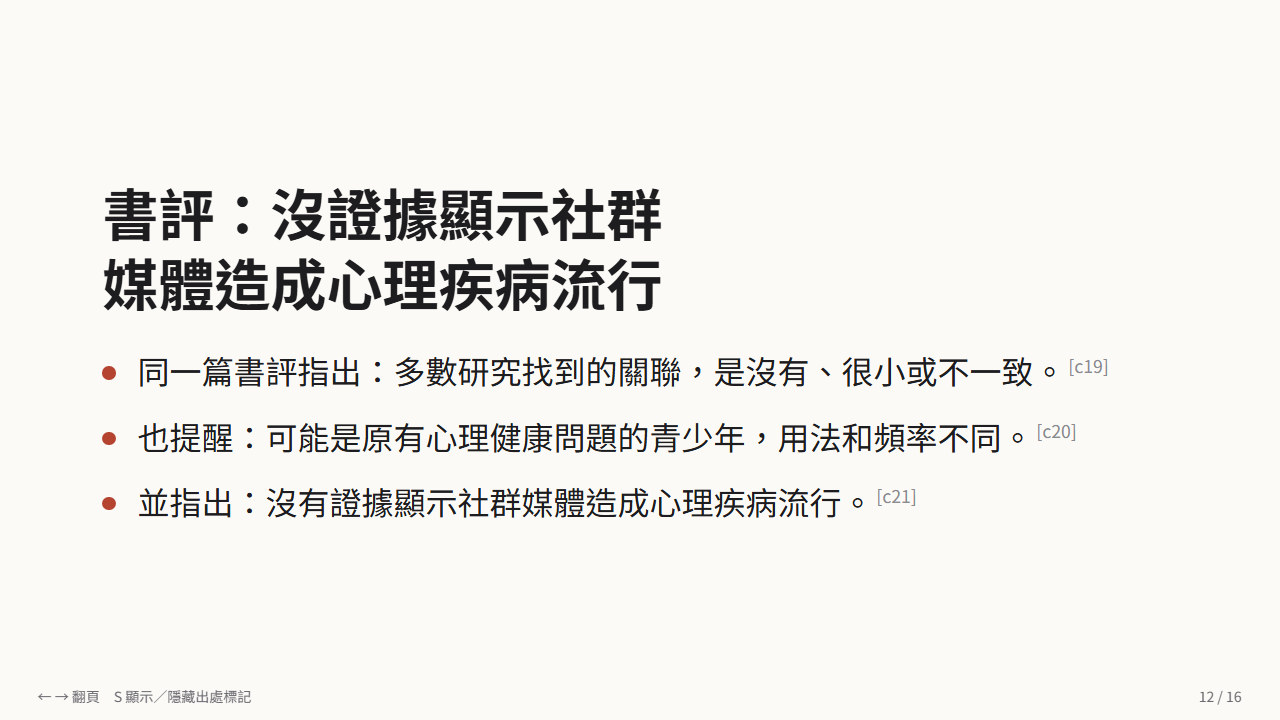
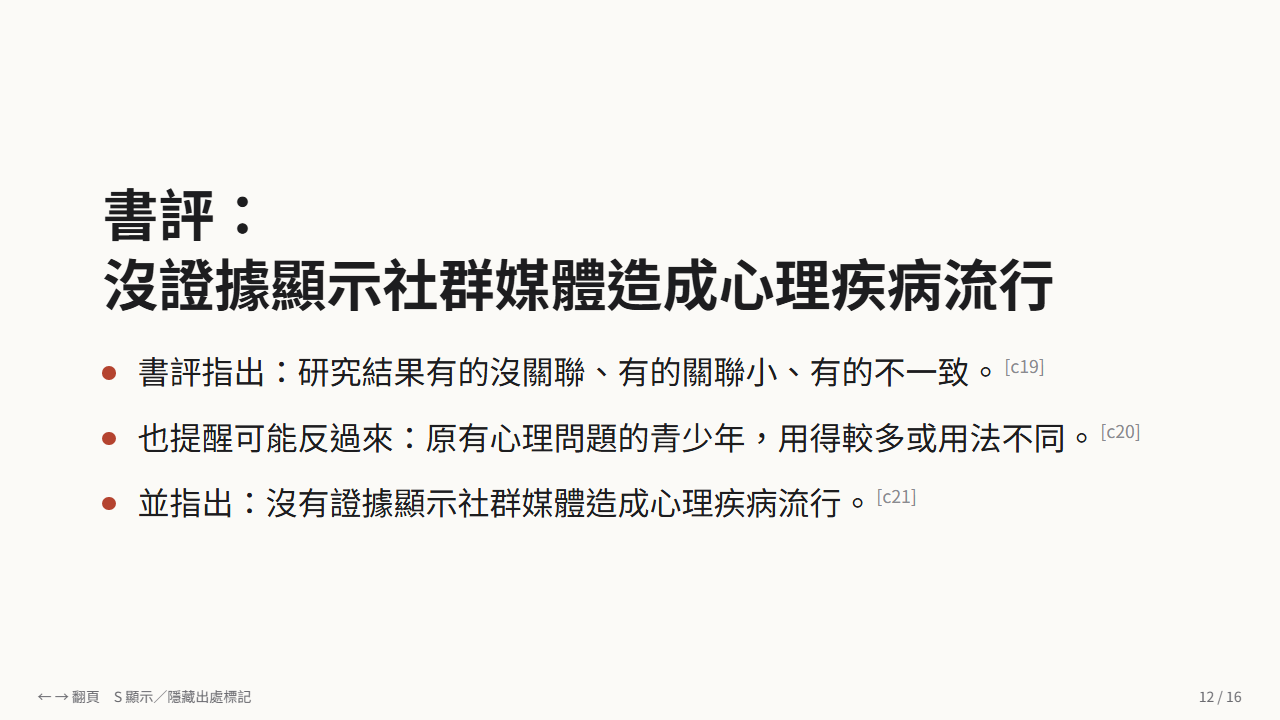
write: slides-intro v4 (fix odgers quantifier overstatement from wiki source; slide-12 rerun G5-G6; slide-08 title wrap via CSS)

diff --git a/outputs/slides-intro/deck.html b/outputs/slides-intro/deck.html
@@ -7,7 +7,7 @@
 font-family:"Noto Sans TC","PingFang TC","Microsoft JhengHei",system-ui,sans-serif}
 .slide{display:none;position:absolute;inset:0;padding:6vh 8vw;flex-direction:column;justify-content:center;overflow:hidden}
 .slide.active{display:flex}
-.slide h1{font-size:clamp(28px,5vw,56px);line-height:1.25;margin:0 0 4vh;color:var(--fg);text-wrap:balance}
+.slide h1{font-size:clamp(28px,5vw,56px);line-height:1.25;margin:0 0 4vh;color:var(--fg);text-wrap:balance;word-break:keep-all;overflow-wrap:anywhere}
 body.hide-refs .ref{display:none}
 .slide.sources h1{font-size:clamp(24px,3.6vw,40px);margin-bottom:3vh}
 .slide.sources ul{columns:2;column-gap:4vw}
@@ -37,7 +37,7 @@ body.hide-refs .ref{display:none}
 <section class="slide" data-slide="slide-09"><h1>常看短影音，注意力比較差？</h1><ul><li>整理 71 篇研究：短影音看越多，認知表現越差（相關研究，僅根據摘要）。<span class="ref" title="（[[nguyen-2025]], Abstract: &quot;Increased SFV use was associated with poorer cognition (moderate mean effect size, r = -.34)&quot;）">[c12]</span><span class="ref" title="（[[nguyen-2025]], Abstract: &quot;Increased SFV use was associated with poorer cognition&quot;）">[c15]</span></li><li>其中注意力和「忍住不分心」的能力，關聯最強（僅根據摘要）。<span class="ref" title="（[[nguyen-2025]], Abstract: &quot;with attention (r = -.38) and inhibitory control (r = -.41) yielding the strongest associations&quot;）">[c13]</span></li><li>青少年和成人都一樣（僅根據摘要）。<span class="ref" title="（[[nguyen-2025]], Abstract: &quot;These findings were consistent across youth and adult samples and across different SFV platforms&quot;）">[c14]</span></li></ul></section>
 <section class="slide" data-slide="slide-10"><h1>「有關聯」不等於「造成」</h1><ul><li>這篇整理的是「有關聯」，不是「造成」（僅根據摘要）。<span class="ref" title="（[[nguyen-2025]], Abstract: &quot;Increased SFV use was associated with poorer cognition&quot;）">[c15]</span></li></ul><p class="lead">心理健康的研究呢？</p><ul><li>一位研究者的書評提醒：「科技使用」和「心理健康問題」的趨勢線一起上升，不能判斷誰造成誰。<span class="ref" title="（[[odgers-2024]], p. 29: &quot;how to avoid making up stories by simply looking at trend lines&quot;）">[c23]</span></li></ul></section>
 <section class="slide" data-slide="slide-11"><h1>手機、社群媒體是心理健康的元兇嗎？</h1><ul><li>前述短影音整理：看越多，心理健康越差，屬弱相關（僅根據摘要）。<span class="ref" title="（[[nguyen-2025]], Abstract: &quot;Similarly, increased SFV use was associated with poorer mental health (weak mean effect size, r = -.21)&quot;）">[c16]</span></li><li>英國中學生：用手機越久，心理幸福感越低（相關研究）。<span class="ref" title="（[[goodyear-2025]], p. 8: &quot;Increases in smartphone and social media time were associated with reduced mental wellbeing on a weekday, on a weekend day, and across a week&quot;）">[c17]</span></li><li>作者：也可能反過來，心理狀態差的學生用得較多。<span class="ref" title="（[[goodyear-2025]], p. 12: &quot;the study design is cross sectional which makes it difficult to draw conclusions about causality and reverse causality cannot be ruled out&quot;）">[c18]</span></li></ul></section>
-<section class="slide" data-slide="slide-12"><h1>書評：沒證據顯示社群媒體造成心理疾病流行</h1><ul><li>同一篇書評指出：多數研究找到的關聯，是沒有、很小或不一致。<span class="ref" title="（[[odgers-2024]], p. 29: &quot;Our efforts have produced a mix of no, small and mixed associations&quot;）">[c19]</span></li><li>也提醒：可能是原有心理健康問題的青少年，用法和頻率不同。<span class="ref" title="（[[odgers-2024]], p. 29: &quot;mental-health problems use such platforms more often or in different ways from their healthy peers&quot;）">[c20]</span></li><li>並指出：沒有證據顯示社群媒體造成心理疾病流行。<span class="ref" title="（[[odgers-2024]], p. 30: &quot;there is no evidence that using these platforms is rewiring children&#x27;s brains or driving an epidemic of mental illness&quot;）">[c21]</span></li></ul></section>
+<section class="slide" data-slide="slide-12"><h1>書評：沒證據顯示社群媒體造成心理疾病流行</h1><ul><li>書評指出：研究結果有的沒關聯、有的關聯小、有的不一致。<span class="ref" title="（[[odgers-2024]], p. 29: &quot;Our efforts have produced a mix of no, small and mixed associations&quot;）">[c19]</span></li><li>也提醒可能反過來：原有心理問題的青少年，用得較多或用法不同。<span class="ref" title="（[[odgers-2024]], p. 29: &quot;mental-health problems use such platforms more often or in different ways from their healthy peers&quot;）">[c20]</span></li><li>並指出：沒有證據顯示社群媒體造成心理疾病流行。<span class="ref" title="（[[odgers-2024]], p. 30: &quot;there is no evidence that using these platforms is rewiring children&#x27;s brains or driving an epidemic of mental illness&quot;）">[c21]</span></li></ul></section>
 <section class="slide" data-slide="slide-13"><h1>限制手機的學校，學生有什麼不同？</h1><ul><li>同一個英國中學生相關研究（學校非隨機分配）：限制手機的學校，在校用手機少 0.67 小時。<span class="ref" title="（[[goodyear-2025]], p. 12: &quot;there is a risk of selection bias and unmeasured confounding in this study&quot;）">[c28]</span><span class="ref" title="（[[goodyear-2025]], p. 7: &quot;Students attending restrictive schools had significantly lower in school smartphone time&quot;）">[c24]</span></li><li>但平日、週末的總使用時間沒差別。<span class="ref" title="（[[goodyear-2025]], p. 7: &quot;in the adjusted models, the differences were non-significant&quot;）">[c25]</span></li><li>心理幸福感、睡眠、成績、課堂行為也沒差別。<span class="ref" title="（[[goodyear-2025]], p. 7: &quot;with no evidence of a difference between groups when controlling for other variables&quot;） （[[goodyear-2025]], p. 7: &quot;No significant differences in pupil outcomes were observed between permissive and restrictive schools for all other behavioural outcomes&quot;）">[c26]</span></li></ul></section>
 <section class="slide" data-slide="slide-14"><h1>這個研究沒回答的事：注意力</h1><ul><li>同一個英國中學生研究沒有測量注意力（包括專注力）。<span class="ref" title="（[[goodyear-2025]], p. 5: &quot;Secondary health and education-related outcomes assessed in pupil participants were: anxiety, depression, physical activity, sleep, classroom behaviour, attainment, and problematic social media use&quot;）">[c27]</span></li><li>所以「限制手機能不能讓學生更專心」，這個研究無法回答。<span class="ref" title="（[[goodyear-2025]], p. 5: &quot;Secondary health and education-related outcomes assessed in pupil participants were: anxiety, depression, physical activity, sleep, classroom behaviour, attainment, and problematic social media use&quot;）">[c27]</span></li></ul></section>
 <section class="slide" data-slide="slide-15"><h1>看到手機新聞，先問三件事</h1><p class="lead">是相關，還是實驗？<span class="wref" title="wiki 概念頁：wiki/concepts/correlation-vs-causation.md">[[correlation-vs-causation]]</span></p><p class="lead">研究對象是誰？<span class="wref" title="wiki 概念頁：wiki/concepts/study-population.md">[[study-population]]</span></p><p class="lead">有沒有人重做過？<span class="wref" title="wiki 概念頁：wiki/concepts/replication.md">[[replication]]</span></p><ul><li>另外，那篇書評認為：考量青少年花在平台上的時間，平台仍然需要改革。<span class="ref" title="（[[odgers-2024]], p. 30: &quot;considerable reforms to these platforms are required, given how much time young people spend on them&quot;）">[c22]</span></li></ul></section>

diff --git a/scripts/slides.py b/scripts/slides.py
@@ -403,7 +403,7 @@ CSS = """
 font-family:"Noto Sans TC","PingFang TC","Microsoft JhengHei",system-ui,sans-serif}
 .slide{display:none;position:absolute;inset:0;padding:6vh 8vw;flex-direction:column;justify-content:center;overflow:hidden}
 .slide.active{display:flex}
-.slide h1{font-size:clamp(28px,5vw,56px);line-height:1.25;margin:0 0 4vh;color:var(--fg);text-wrap:balance}
+.slide h1{font-size:clamp(28px,5vw,56px);line-height:1.25;margin:0 0 4vh;color:var(--fg);text-wrap:balance;word-break:keep-all;overflow-wrap:anywhere}
 body.hide-refs .ref{display:none}
 .slide.sources h1{font-size:clamp(24px,3.6vw,40px);margin-bottom:3vh}
 .slide.sources ul{columns:2;column-gap:4vw}

diff --git a/wiki/log.md b/wiki/log.md
@@ -242,3 +242,20 @@ updated: 2026-11-23
   - 問題：G6 (c) 輕微 5 個｜步驟：G6 (c)｜處理：順手修了 slide-14（「專注力」改成「注意力」，改用用詞表的稱呼），重跑 (a)、(b) 通過；另外 4 個因為 80 字上限或卡片沒有依據，沒有修，記進 report
   - 問題：卡片 c19 的「大部分研究」可能超出 odgers 原文（"a mix of no, small and mixed associations"），而且是從 wiki 的 [[phone-social-media-mental-health]] 和 [[odgers-2024]] 繼承來的｜步驟：G6 (b) 第 2 輪（審查員附帶指出）｜處理：outputs 不能回頭改 wiki，列進 report 待使用者決定是否修正 wiki
   - 問題：slide-08 的標題剛好在「同樣」中間斷行｜步驟：G8 人工看截圖｜處理：外觀問題，不是溢出，記進 report
+
+## [2026-11-23] lint | 修正 odgers-2024 的量詞誇大（使用者指示）
+- 修改：[[phone-social-media-mental-health]]（「反對」一節、「目前怎麼看」第一點）、[[odgers-2024]]（一句話摘要、主要發現 3）：「大部分研究的結果是沒有、很小或不一致的關聯」改成「研究找到的結果有好幾種：沒有關聯、關聯很小、結果不一致都有」，忠於原文 "a mix of no, small and mixed associations"；短引不變
+- L1 重跑：28 頁，錯誤 0 個、警告 0 個（沒有用 `--write`，因為它會整份覆寫 lint-report.md，連同 L2 的紀錄）；`check_odgers.py` 35 句全部通過
+- 檢查結果：
+  - 問題：「大部分」是原文沒有的量詞（量詞誇大）｜步驟：**錯誤源自 odgers-2024 ingest 的 I4 寫頁**；wiki lint 的 L1 腳本無法檢查轉述，**L2 AI 審查沒有抓到**（第 3 項過度詮釋本來應該抓到；4-A 的審查員還引用了這一行）；直到簡報第三版 G6 (b) 第 2 輪才由審查員附帶指出（之前的回報和使用者指示寫成 G6 (c)，依本 log 第三版完成那一筆，實際是 G6 (b)）｜處理：使用者同意後，從 wiki 源頭改起，再更新卡片 c19 和 slide-12
+  - 意義：**AI 審查的盲點是細微的量詞誇大。** 引文是對的，方向也是對的（沒有因果、沒有誇大關聯），只有程度被放大，所以腳本攔不下來，AI 審查也容易判定「相符」。錯誤進了 wiki 之後，下游照抄就會繼承；這次能發現，是因為審查員剛好逐字對照英文。這不是穩定的防線
+  - 新發現：同一頁的「方式和頻率不同」把原文 "more often or in different ways" 的「或」寫成「和」，是同一類問題（連接詞改寫）｜步驟：簡報第四版 G6 (b) 第 1 輪｜處理：沒有修改 wiki，列進 outputs/slides-intro/report.md 的 H 項，等使用者決定
+
+## [2026-11-23] write | slides-intro 第四版
+- 依使用者對 E、F、G 的決定修改：c19、outline slide-12 的重點同步改成忠於原文；只對 slide-12 重跑 G5–G6；G7 用排版處理 slide-08 的斷行；80 字上限不變
+- 關卡結果：G3、G4 通過；slide-12 G6 (a) 通過（80 字）；G6 (b) 第 1 輪不通過、第 2 輪通過；G6 (c)（只看 slide-12 和其他頁）會誤導 0 個、輕微 4 個；G7 通過（逐字一致）；G8 通過（16 頁沒有溢出）
+- 檢查結果（每次退回）：
+  - 問題：slide-12 第一次改完 89 字｜步驟：G6 (a)｜處理：精簡第 1 行，改成「研究結果有的沒關聯、有的關聯小、有的不一致」
+  - 問題：slide-12 第 2 行「用法和頻率不同」把 "or" 寫成「和」，也漏掉「可能反過來」｜步驟：G6 (b) 第 1 輪｜處理：退回 G5，改成「也提醒可能反過來：原有心理問題的青少年，用得較多或用法不同」；為了守住 80 字，第 1 行的「同一篇書評」改成用詞表允許的「書評」
+  - 問題：G6 (c) 輕微 4 個（回指較遠、「心理問題」和「心理健康問題」不一致、手機和社群媒體的範圍、標題和第 3 行重複）｜步驟：G6 (c)｜處理：不退回；前兩個改了會超過 80 字，記進 report
+  - 問題：slide-08 標題在「同樣」中間斷行｜步驟：G7｜處理：標題 CSS 加上 `word-break: keep-all`（只在標點換行）和 `overflow-wrap: anywhere`（備案），沒有改字；人工看過 slide-01、08、12 的截圖

diff --git a/wiki/sources/odgers-2024.md b/wiki/sources/odgers-2024.md
@@ -21,7 +21,7 @@ n: 未載明（書評，不適用）
 
 ## 一句話摘要
 
-研究青少年心理健康的心理學家 Odgers 認為，「數位科技重塑孩子的大腦、造成心理疾病流行」這個說法**沒有科學支持**：大部分研究只找到沒有關聯、很小或不一致的關聯，而且大多是相關研究，不能說明因果。
+研究青少年心理健康的心理學家 Odgers 認為，「數位科技重塑孩子的大腦、造成心理疾病流行」這個說法**沒有科學支持**：研究找到的結果有好幾種，沒有關聯、關聯很小、結果不一致都有，而且大多是相關研究，不能說明因果。
 
 ## 研究問題
 
@@ -37,7 +37,7 @@ n: 未載明（書評，不適用）
 
 1. **書中的核心主張沒有科學支持**（[[odgers-2024]], p. 29: "the book's repeated suggestion that digital technologies are rewiring our children's brains and causing an epidemic of mental illness is not supported by science"）
 2. **兩條趨勢線一起上升，不代表因果。** Haidt 在書中用圖表呈現「科技使用」和「青少年心理健康問題」一起上升（[[odgers-2024]], p. 29: "Haidt supplies graphs throughout the book showing that digital-technology use and adolescent mental-health problems are rising together"）。作者說，她在統計課上會畫類似的兩條線（[[odgers-2024]], p. 29: "I draw similar lines on a board that seem to connect two disparate phenomena"），學生幾分鐘內就會開始編故事，解釋兩者為什麼有關（[[odgers-2024]], p. 29: "Within minutes, the students usually begin telling elaborate stories about how the two phenomena are related"）。她認為這些圖正好可以拿來教學生，不要只看趨勢線就編故事（[[odgers-2024]], p. 29: "how to avoid making up stories by simply looking at trend lines"）
-3. **大部分研究的結果是：沒有、很小，或不一致的關聯**（[[odgers-2024]], p. 29: "Our efforts have produced a mix of no, small and mixed associations"），而且大多是相關研究（[[odgers-2024]], p. 29: "Most data are correlative"）
+3. **研究找到的結果有好幾種：沒有關聯、關聯很小、結果不一致都有**（[[odgers-2024]], p. 29: "Our efforts have produced a mix of no, small and mixed associations"），而且大多是相關研究（[[odgers-2024]], p. 29: "Most data are correlative"）
 4. **可能是反過來。** 作者說，追蹤研究（longitudinal study）找到的關聯顯示的不是「社群媒體造成憂鬱」（[[odgers-2024]], p. 29: "they suggest not that social-media use predicts or causes depression, but that young people who already have"），而是原本就有心理健康問題的青少年，使用社群媒體的方式和頻率不同（[[odgers-2024]], p. 29: "mental-health problems use such platforms more often or in different ways from their healthy peers"）
 5. **心理疾病的成因很複雜**，遺傳和環境因素都有（[[odgers-2024]], p. 29: "are driven by a complex set of genetic and environmental factors"）
 6. **兩件事可以同時成立**：沒有證據顯示社群媒體造成心理疾病流行（[[odgers-2024]], p. 30: "there is no evidence that using these platforms is rewiring children's brains or driving an epidemic of mental illness"）；**但是**，考量青少年花在平台上的時間，平台仍然需要大幅改革（[[odgers-2024]], p. 30: "considerable reforms to these platforms are required, given how much time young people spend on them"）

diff --git a/wiki/claims/phone-social-media-mental-health.md b/wiki/claims/phone-social-media-mental-health.md
@@ -23,7 +23,7 @@ updated: 2026-11-23
 ## 反對「是元兇」的論點
 
 - 【評論】「數位科技重塑孩子大腦、造成心理疾病流行」的說法沒有科學支持（[[odgers-2024]], p. 29: "the book's repeated suggestion that digital technologies are rewiring our children's brains and causing an epidemic of mental illness is not supported by science"）
-- 【評論】大部分研究的結果是沒有、很小，或不一致的關聯（[[odgers-2024]], p. 29: "Our efforts have produced a mix of no, small and mixed associations"），而且大多是相關研究（[[odgers-2024]], p. 29: "Most data are correlative"）
+- 【評論】研究找到的結果有好幾種：沒有關聯、關聯很小、結果不一致都有（[[odgers-2024]], p. 29: "Our efforts have produced a mix of no, small and mixed associations"），而且大多是相關研究（[[odgers-2024]], p. 29: "Most data are correlative"）
 - 【評論】**可能是反過來**：追蹤研究（longitudinal study）顯示，原本就有心理健康問題的青少年，使用社群媒體的方式和頻率不同（[[odgers-2024]], p. 29: "mental-health problems use such platforms more often or in different ways from their healthy peers"）
 - 【評論】心理疾病的成因很複雜，遺傳和環境因素都有（[[odgers-2024]], p. 29: "are driven by a complex set of genetic and environmental factors"）
 - 【評論】有負面後果，不等於是成癮（[[panova-2018]], p. 257: "negative consequences is not the same as the existence of addiction"）。見 [[is-smartphone-addiction-real]]。
@@ -42,7 +42,7 @@ updated: 2026-11-23
 
 > 以下是本 wiki 的整理，不是任何一篇論文的結論。
 
-- **兩方的說法不完全衝突。** [[nguyen-2025]] 找到的是「弱的相關」；Odgers 說大部分研究是「沒有、很小或不一致的關聯」。兩者都同意有一些關聯，但都不足以支持「元兇」這麼強的說法。
+- **兩方的說法不完全衝突。** [[nguyen-2025]] 找到的是「弱的相關」；Odgers 說研究找到的結果有好幾種：沒有關聯、關聯很小、結果不一致都有。兩者都同意有一些關聯，但都不足以支持「元兇」這麼強的說法。
 - **[[goodyear-2025]] 和 Odgers 的描述有落差。** 這篇在平日、週末和一整週的各個測量時段，都發現使用時間和心理健康較差有一致的關聯，這和 Odgers「結果不一」的描述不同。但它是橫斷面研究，作者自己也表示不能排除反向因果，所以它同樣只能說明「有關聯」，不能說明手機是元兇。兩者可能的差異來源：Odgers 說的是整體研究文獻，這篇是英國一群中學生的單一研究。
 - **目前缺少的是因果證據。** 現有證據大多是相關研究，能說明「一起出現」，但不能說明「誰造成誰」。
 - **證據的類型要注意**：反對方的主要論點來自兩篇評論（[[odgers-2024]] 是書評，[[panova-2018]] 是立場性評論），它們引用的研究，wiki 大多沒有收錄；支持關聯的統合分析（[[nguyen-2025]]）只有摘要，[[goodyear-2025]] 有全文，但它是橫斷面研究，同樣只能說明「有關聯」。整體來說，wiki 對這個問題的證據基礎還很薄，**特別是缺少因果證據**。

diff --git a/.claude/skills/topic-slides/SKILL.md b/.claude/skills/topic-slides/SKILL.md
@@ -184,7 +184,7 @@ abstract_only: false
 `python scripts/slides.py render <dir>`：由腳本把 drafts 轉成單一 HTML 檔，**只做排版**，不改任何一個字。
 - 方向鍵（← →）、空白鍵、PageUp、PageDown 可以翻頁；右下角顯示頁碼
 - `[card-id]` 渲染成灰色小上標；滑鼠移到上面會顯示該卡片的出處；**按 S 鍵**可以切換顯示或隱藏
-- 標題用 CSS `text-wrap: balance` 平均換行。換行問題用排版處理，不改字
+- 標題用 CSS `text-wrap: balance` 平均換行，加上 `word-break: keep-all` 讓中文只在標點處換行（`overflow-wrap: anywhere` 當備案，避免溢出）。換行問題用排版處理，不改字
 - 頁碼、操作說明這類介面文字放在 `class="chrome"` 的元素裡，不算稿子內容
 - **最後一頁「資料來源」由腳本自動產生**，不由 AI 撰寫：每張卡片一行，格式是「[卡片 id] 作者, 年份, 頁碼」。作者和年份取自 wiki 來源頁 H1 的括號，頁碼取自卡片的出處；僅摘要的來源加上「（僅摘要）」。這一頁不算在 10–15 頁的規格內
 

diff --git a/outputs/slides-intro/outline.md b/outputs/slides-intro/outline.md
@@ -60,7 +60,7 @@
 
 ## slide-12｜書評：沒證據顯示社群媒體造成心理疾病流行
 - 段落：S4
-- 重點：多數研究的關聯很小或不一致；沒有證據顯示是元兇，但平台仍需要改革。
+- 重點：研究找到的結果有沒有關聯、關聯很小、結果不一致（原為「多數研究」，E 項修正）；沒有證據顯示是元兇，但平台仍需要改革。
 - 卡片：c19, c20, c21（c22 在 G6 第 3 輪移到 slide-15）
 
 ## slide-13｜限制手機的學校，學生有什麼不同？

diff --git a/outputs/slides-intro/drafts/slide-12.md b/outputs/slides-intro/drafts/slide-12.md
@@ -1,4 +1,4 @@
 # 書評：沒證據顯示社群媒體造成心理疾病流行
-- 同一篇書評指出：多數研究找到的關聯，是沒有、很小或不一致。[c19]
-- 也提醒：可能是原有心理健康問題的青少年，用法和頻率不同。[c20]
+- 書評指出：研究結果有的沒關聯、有的關聯小、有的不一致。[c19]
+- 也提醒可能反過來：原有心理問題的青少年，用得較多或用法不同。[c20]
 - 並指出：沒有證據顯示社群媒體造成心理疾病流行。[c21]

diff --git a/outputs/slides-intro/cards/c19.md b/outputs/slides-intro/cards/c19.md
@@ -7,7 +7,7 @@ abstract_only: false
 ---
 
 ## 發現
-研究這個主題的學者指出，大部分研究找到的是沒有、很小或不一致的關聯。
+研究這個主題的學者指出，研究找到的結果有好幾種：沒有關聯、關聯很小、結果不一致都有。
 
 ## 出處（從 wiki 照抄）
 （[[odgers-2024]], p. 29: "Our efforts have produced a mix of no, small and mixed associations"）
